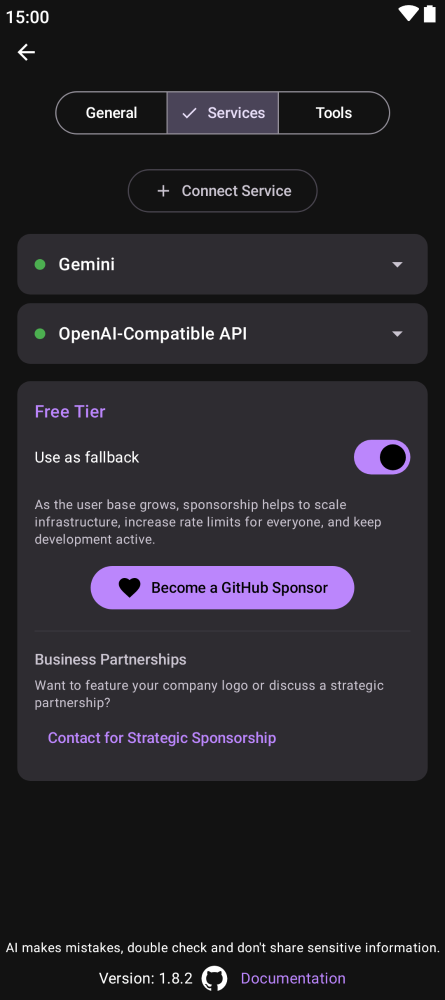
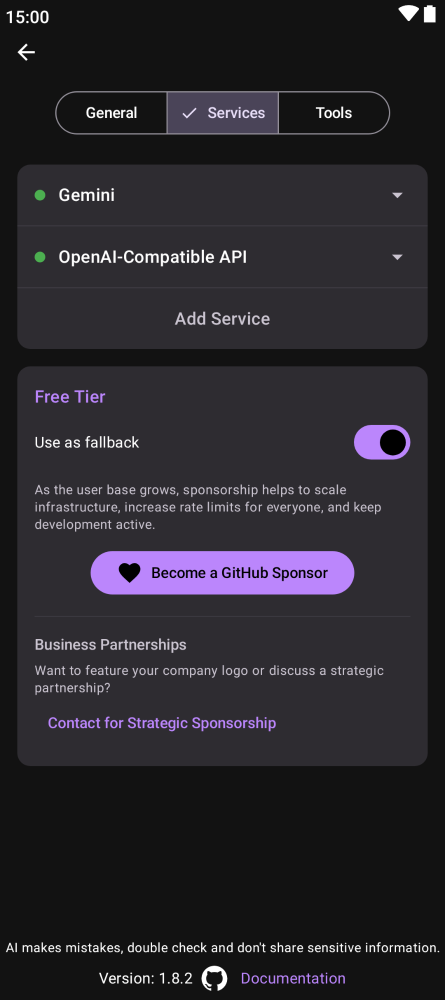
Cleaner services box UI

Changed region(s): [[0.0292, 0.155, 0.964, 0.806], [0.7596, 0.651, 0.8472, 0.713]]

diff --git a/composeApp/src/commonMain/kotlin/com/inspiredandroid/kai/ui/settings/SettingsScreen.kt b/composeApp/src/commonMain/kotlin/com/inspiredandroid/kai/ui/settings/SettingsScreen.kt
@@ -53,7 +53,6 @@ import androidx.compose.material3.Icon
 import androidx.compose.material3.IconButton
 import androidx.compose.material3.MaterialTheme
 import androidx.compose.material3.ModalBottomSheet
-import androidx.compose.material3.OutlinedButton
 import androidx.compose.material3.OutlinedTextField
 import androidx.compose.material3.RangeSlider
 import androidx.compose.material3.SegmentedButton
@@ -117,6 +116,7 @@ import kai.composeapp.generated.resources.settings_base_url_label
 import kai.composeapp.generated.resources.settings_become_sponsor
 import kai.composeapp.generated.resources.settings_business_partnerships
 import kai.composeapp.generated.resources.settings_business_partnerships_description
+import kai.composeapp.generated.resources.settings_add_service
 import kai.composeapp.generated.resources.settings_connect_server
 import kai.composeapp.generated.resources.settings_contact_sponsorship
 import kai.composeapp.generated.resources.settings_daemon_mode
@@ -471,55 +471,66 @@ private fun FreeSettings(
 private fun ServicesContent(uiState: SettingsUiState) {
     var showAddServiceSheet by remember { mutableStateOf(false) }
 
-    // Connect Server button
-    OutlinedButton(
-        onClick = { showAddServiceSheet = true },
-        modifier = Modifier.pointerHoverIcon(PointerIcon.Hand),
-    ) {
-        Icon(Icons.Default.Add, contentDescription = null, modifier = Modifier.size(18.dp))
-        Spacer(Modifier.width(8.dp))
-        Text(stringResource(Res.string.settings_connect_server))
-    }
-
-    Spacer(Modifier.height(16.dp))
-
     // Configured services list
     val entries = uiState.configuredServices
-    entries.forEachIndexed { index, entry ->
-        ConfiguredServiceCard(
-            entry = entry,
-            isExpanded = uiState.expandedServiceId == entry.instanceId,
-            onExpand = { uiState.onExpandService(if (uiState.expandedServiceId == entry.instanceId) null else entry.instanceId) },
-            onChangeApiKey = { apiKey -> uiState.onChangeApiKey(entry.instanceId, apiKey) },
-            onChangeBaseUrl = { baseUrl -> uiState.onChangeBaseUrl(entry.instanceId, baseUrl) },
-            onSelectModel = { modelId -> uiState.onSelectModel(entry.instanceId, modelId) },
-            onRemove = { uiState.onRemoveService(entry.instanceId) },
-            onMoveUp = if (index > 0) {
-                {
-                    val ids = entries.map { it.instanceId }.toMutableList()
-                    ids.removeAt(index)
-                    ids.add(index - 1, entry.instanceId)
-                    uiState.onReorderServices(ids)
+    if (entries.isNotEmpty() || uiState.availableServicesToAdd.isNotEmpty()) {
+        SettingsCard(innerPadding = false) {
+            entries.forEachIndexed { index, entry ->
+                ConfiguredServiceCardContent(
+                    entry = entry,
+                    isExpanded = uiState.expandedServiceId == entry.instanceId,
+                    onExpand = { uiState.onExpandService(if (uiState.expandedServiceId == entry.instanceId) null else entry.instanceId) },
+                    onChangeApiKey = { apiKey -> uiState.onChangeApiKey(entry.instanceId, apiKey) },
+                    onChangeBaseUrl = { baseUrl -> uiState.onChangeBaseUrl(entry.instanceId, baseUrl) },
+                    onSelectModel = { modelId -> uiState.onSelectModel(entry.instanceId, modelId) },
+                    onRemove = { uiState.onRemoveService(entry.instanceId) },
+                    onMoveUp = if (index > 0) {
+                        {
+                            val ids = entries.map { it.instanceId }.toMutableList()
+                            ids.removeAt(index)
+                            ids.add(index - 1, entry.instanceId)
+                            uiState.onReorderServices(ids)
+                        }
+                    } else {
+                        null
+                    },
+                    onMoveDown = if (index < entries.lastIndex) {
+                        {
+                            val ids = entries.map { it.instanceId }.toMutableList()
+                            ids.removeAt(index)
+                            ids.add(index + 1, entry.instanceId)
+                            uiState.onReorderServices(ids)
+                        }
+                    } else {
+                        null
+                    },
+                )
+                if (index < entries.lastIndex || uiState.availableServicesToAdd.isNotEmpty()) {
+                    HorizontalDivider(color = MaterialTheme.colorScheme.outlineVariant.copy(alpha = 0.5f))
                 }
-            } else {
-                null
-            },
-            onMoveDown = if (index < entries.lastIndex) {
-                {
-                    val ids = entries.map { it.instanceId }.toMutableList()
-                    ids.removeAt(index)
-                    ids.add(index + 1, entry.instanceId)
-                    uiState.onReorderServices(ids)
+            }
+            // Add service row
+            if (uiState.availableServicesToAdd.isNotEmpty()) {
+                Row(
+                    modifier = Modifier.fillMaxWidth()
+                        .clickable { showAddServiceSheet = true }
+                        .pointerHoverIcon(PointerIcon.Hand)
+                        .padding(16.dp),
+                    verticalAlignment = Alignment.CenterVertically,
+                    horizontalArrangement = Arrangement.Center,
+                ) {
+                    Text(
+                        text = stringResource(Res.string.settings_add_service),
+                        style = MaterialTheme.typography.titleMedium,
+                        color = MaterialTheme.colorScheme.onSurfaceVariant,
+                    )
                 }
-            } else {
-                null
-            },
-        )
-        Spacer(Modifier.height(8.dp))
+            }
+        }
     }
 
     // Free tier card (always at bottom)
-    Spacer(Modifier.height(8.dp))
+    Spacer(Modifier.height(16.dp))
     FreeSettings(
         showFallbackToggle = entries.isNotEmpty(),
         isFreeFallbackEnabled = uiState.isFreeFallbackEnabled,
@@ -557,7 +568,7 @@ private fun ServicesContent(uiState: SettingsUiState) {
 }
 
 @Composable
-private fun ConfiguredServiceCard(
+private fun ConfiguredServiceCardContent(
     entry: ConfiguredServiceEntry,
     isExpanded: Boolean,
     onExpand: () -> Unit,
@@ -568,7 +579,6 @@ private fun ConfiguredServiceCard(
     onMoveUp: (() -> Unit)?,
     onMoveDown: (() -> Unit)?,
 ) {
-    SettingsCard(innerPadding = false) {
         // Header row — clickable area spans full card width
         Row(
             modifier = Modifier.fillMaxWidth()
@@ -691,7 +701,6 @@ private fun ConfiguredServiceCard(
                 }
             }
         }
-    }
 }
 
 @Composable

diff --git a/composeApp/src/androidMain/kotlin/com/inspiredandroid/kai/MainActivity.kt b/composeApp/src/androidMain/kotlin/com/inspiredandroid/kai/MainActivity.kt
@@ -65,7 +65,7 @@ class MainActivity : ComponentActivity() {
                 textToSpeech = textToSpeech,
                 isKoinStarted = true,
                 onAppOpens = { appOpens ->
-                    if (appOpens == 5) {
+                    if (appOpens % 5 == 0) {
                         requestReview(this@MainActivity)
                     }
                 },

diff --git a/screenshotTests/src/test/kotlin/com/inspiredandroid/kai/screenshots/ScreenshotTestData.kt b/screenshotTests/src/test/kotlin/com/inspiredandroid/kai/screenshots/ScreenshotTestData.kt
@@ -131,6 +131,7 @@ JavaScript
                 selectedModel = SettingsModel(id = "llama3.2:3b", subtitle = "llama3.2:3b", isSelected = true),
             ),
         ),
+        availableServicesToAdd = listOf(Service.OpenAI, Service.DeepSeek, Service.Mistral),
     )
 
     val settingsGeneral = SettingsUiState(
